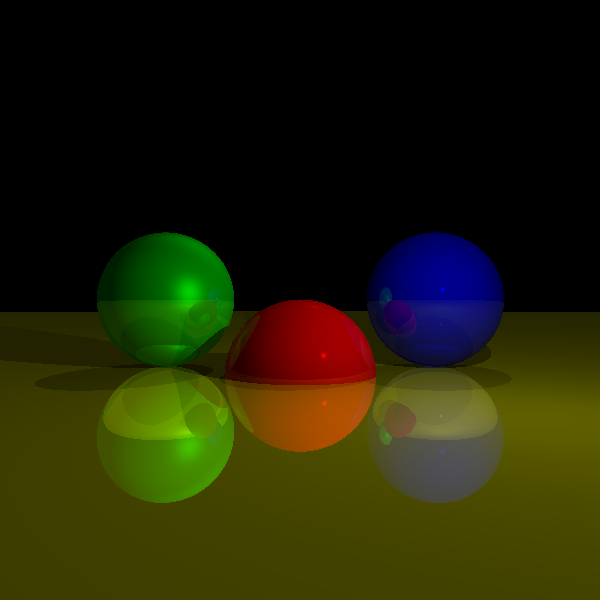
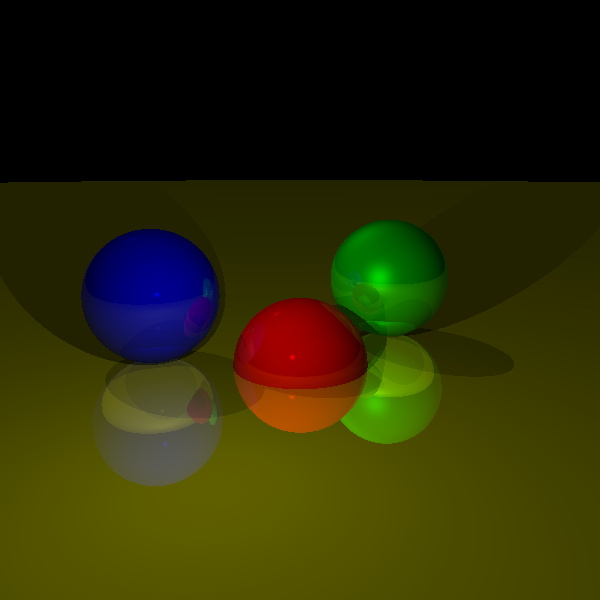
[go/tracy] add camera to go/tracy

diff --git a/go/tracy/camera.go b/go/tracy/camera.go
@@ -1,0 +1,51 @@
+package tracy
+
+type Camera struct {
+	Position Vec3
+	Target   Vec3
+	Up       Vec3
+	Forward  Vec3
+	Right    Vec3
+	UpWorld  Vec3
+}
+
+func NewCamera(position, target, up Vec3) Camera {
+	camera := Camera{
+		Position: position,
+		Target:   target,
+		Up:       up,
+	}
+	camera.updateVectors()
+	return camera
+}
+
+func NewCameraLookAt(position, target Vec3) Camera {
+	return NewCamera(position, target, Vec3{0, 1, 0})
+}
+
+func (c *Camera) updateVectors() {
+	c.Forward = c.Target.Sub(c.Position).Normalize()
+	c.Right = c.Forward.Cross(c.Up).Normalize()
+	c.UpWorld = c.Right.Cross(c.Forward).Normalize()
+}
+
+func (c *Camera) LookAt(target Vec3) {
+	c.Target = target
+	c.updateVectors()
+}
+
+func (c *Camera) Move(direction Vec3) {
+	c.Position = c.Position.Add(direction)
+	c.Target = c.Target.Add(direction)
+}
+
+func (c Camera) GetRayDirection(canvasPoint Vec2, image *Image, scene Scene) Vec3 {
+	viewportX := canvasPoint.X * scene.ViewportSize / float64(image.Width)
+	viewportY := canvasPoint.Y * scene.ViewportSize / float64(image.Height)
+
+	localDirection := c.Right.Scale(viewportX).
+		Add(c.UpWorld.Scale(viewportY)).
+		Add(c.Forward.Scale(scene.ProjectionPlane))
+
+	return localDirection.Normalize()
+}

diff --git a/go/tracy/tracer.go b/go/tracy/tracer.go
@@ -2,11 +2,11 @@ package tracy
 
 import "math"
 
-func DrawScene(scene Scene, image *Image, cameraPosition Vec3) {
+func DrawScene(scene Scene, image *Image, camera Camera) {
 	for x := -image.Width / 2; x < image.Width/2; x++ {
 		for y := -image.Height / 2; y < image.Height/2; y++ {
-			direction := canvasToViewport(Vec2{float64(x), float64(y)}, image, scene)
-			color := traceRay(cameraPosition, direction, 1.0, Inf, scene, 2)
+			direction := camera.GetRayDirection(Vec2{float64(x), float64(y)}, image, scene)
+			color := traceRay(camera.Position, direction, 1.0, Inf, scene, 2)
 			image.PutPixel(float64(x), float64(y), color)
 		}
 	}

diff --git a/go/tracy/main.go b/go/tracy/main.go
@@ -13,7 +13,11 @@ import (
 func main() {
 	viewportSize := 1.0
 	projectionPlane := 1.0
-	cameraPosition := Vec3{0, 0, -5}
+
+	camera := NewCameraLookAt(
+		Vec3{3, 2, -5},  // position: slightly to the right and up
+		Vec3{0, 0, 3},   // looking at center of scene
+	)
 
 	spheres := []Sphere{
 		NewSphere(Vec3{0, -1, 3}, 1, Red, 500, 0.2),
@@ -31,7 +35,7 @@ func main() {
 	scene := NewScene(viewportSize, projectionPlane, Background, spheres, lights)
 	img := NewImage(600, 600)
 
-	DrawScene(scene, img, cameraPosition)
+	DrawScene(scene, img, camera)
 
 	outputPath := "tracer_output.png"
 	saveImage(img, outputPath)

diff --git a/go/tracy/vec3.go b/go/tracy/vec3.go
@@ -40,6 +40,14 @@ func (v Vec3) Normalize() Vec3 {
 	return v.Scale(1.0 / l)
 }
 
+func (v Vec3) Cross(o Vec3) Vec3 {
+	return Vec3{
+		X: v.Y*o.Z - v.Z*o.Y,
+		Y: v.Z*o.X - v.X*o.Z,
+		Z: v.X*o.Y - v.Y*o.X,
+	}
+}
+
 type Vec2 struct {
 	X, Y float64
 }
